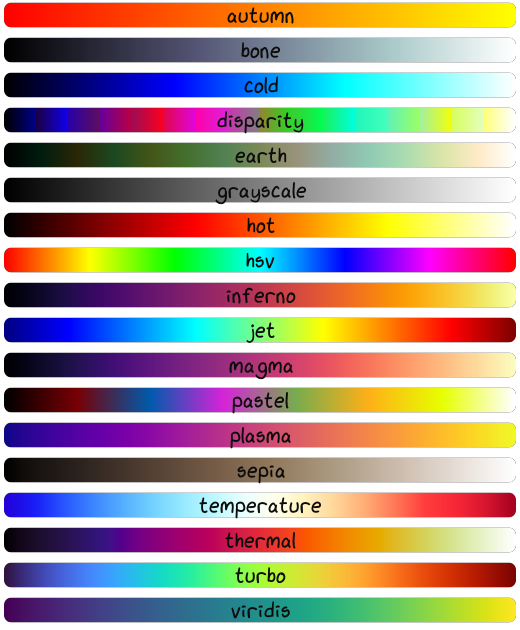
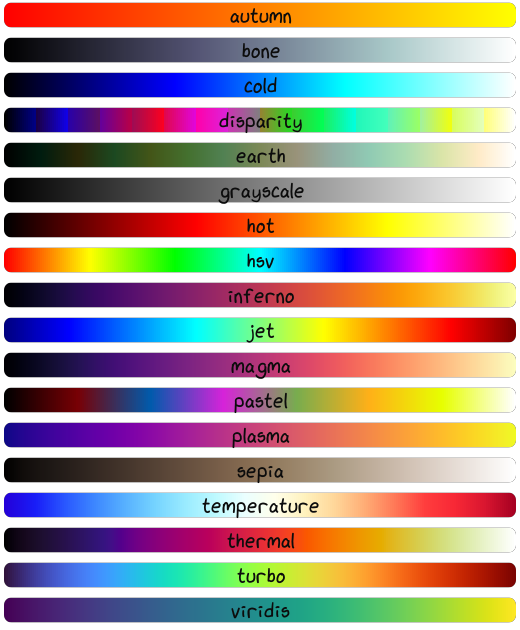
adjust source code include paths

diff --git a/examples/rtd-examples-python/rtd_demo_images/positioning.py b/examples/rtd-examples-python/rtd_demo_images/positioning.py
@@ -11,15 +11,15 @@ def demo_text_anchors():
         width=canvas_width, height=canvas_height, color='white!0')
 
     # Style specifications:
-    text_style = viren2d.TextStyle(family='xkcd', size=18)
-    text_style.alignment = 'center'
+    text_style = viren2d.TextStyle(
+        family='xkcd', size=18, alignment='center', color='white')
 
     line_style = viren2d.LineStyle(
         width=1, dash_pattern=[10, 10], color=(0.4, 0.4, 0.4))
 
     marker_style = viren2d.MarkerStyle(
         viren2d.Marker.Pentagram, size=18, thickness=1,
-        filled=True, color='navy-blue!80')
+        filled=True, color='maroon!80')
 
     # Draw a grid
     offset_x = 20
@@ -43,7 +43,7 @@ def demo_text_anchors():
         painter.draw_text_box(
             [str(anchor)], pos, anchor=anchor, text_style=text_style,
             padding=padding, rotation=0, line_style=viren2d.LineStyle.Invalid,
-            fill_color='azure!40', radius=0.15)
+            fill_color='azure!80', radius=0.15)
 
         x += delta_x
         if x >= canvas_width:

diff --git a/examples/rtd-examples-python/render_rtd_images.py b/examples/rtd-examples-python/render_rtd_images.py
@@ -15,7 +15,7 @@ def _process_result(
     if show_image:
         imvis.imshow(img, title, wait_ms=-1)#100)
     if save_image:
-        output_folder = Path(__file__).absolute().parents[1] / 'docs' / 'source' / 'images'
+        output_folder = Path(__file__).absolute().parents[2] / 'docs' / 'source' / 'images'
         imutils.imsave(output_folder / filename, img)
 
 
@@ -98,6 +98,5 @@ def render_rtd_cheatsheets(show_images: bool, save_images: bool):
 
 
 if __name__ == '__main__':
-    #FIXME re-enable:
-    # render_rtd_demos(True, True)
+    render_rtd_demos(True, True)
     render_rtd_cheatsheets(True, True)

diff --git a/examples/rtd-examples-python/rtd_demo_images/tracking_by_detection.py b/examples/rtd-examples-python/rtd_demo_images/tracking_by_detection.py
@@ -1,12 +1,12 @@
 import numpy as np
 import viren2d
-import pathlib
+from pathlib import Path
 
 
 def demo_tracking_by_detection():
     painter = viren2d.Painter()
     painter.set_canvas_filename(
-        str(pathlib.Path(__file__).parent.parent / 'data' / 'ninja.jpg'))
+        str(Path(__file__).absolute().parents[2] / 'data' / 'ninja.jpg'))
 
     line_style = viren2d.LineStyle(width=4, color='navy-blue!80')
     

diff --git a/examples/rtd-examples-python/rtd_demo_images/cheat_sheets.py b/examples/rtd-examples-python/rtd_demo_images/cheat_sheets.py
@@ -264,7 +264,7 @@ def cheat_sheet_colormaps():
 
    # Style specifications:
     text_style = viren2d.TextStyle(
-        family='xkcd', size=22, color=(0.05, 0.05, 0.05))
+        family='xkcd', size=21, color=(0.05, 0.05, 0.05))
     
     row = np.array([[i] * 2 for i in range(256)]).astype(np.uint8).flatten()
     data = np.repeat(row.reshape((1,-1)), 25, axis=0)

diff --git a/docs/source/tutorial/draw-primitives.rst b/docs/source/tutorial/draw-primitives.rst
@@ -23,7 +23,7 @@ An exemplary potpourri of supported arrow styles:
 
 This visualization has been created with the following Python code:
 
-   .. literalinclude:: ../../../examples/rtd_demo_images/primitives.py
+   .. literalinclude:: ../../../examples/rtd-examples-python/rtd_demo_images/primitives.py
       :language: python
       :lines: 68-100
       :emphasize-lines: 7-10, 15, 21, 24, 28
@@ -45,7 +45,7 @@ A potpourri of ellipse configurations:
 
 This visualization has been created with the following Python code:
 
-   .. literalinclude:: ../../../examples/rtd_demo_images/primitives.py
+   .. literalinclude:: ../../../examples/rtd-examples-python/rtd_demo_images/primitives.py
       :language: python
       :lines: 13-61
       :linenos:
@@ -68,7 +68,7 @@ Basic rectangle configurations:
 
 This visualization has been created with the following Python code:
 
-   .. literalinclude:: ../../../examples/rtd_demo_images/primitives.py
+   .. literalinclude:: ../../../examples/rtd-examples-python/rtd_demo_images/primitives.py
       :language: python
       :lines: 112-140
       :linenos:

diff --git a/docs/source/tutorial/draw-text.rst b/docs/source/tutorial/draw-text.rst
@@ -26,7 +26,7 @@ which are highlighted via :func:`~viren2d.Painter.draw_marker`:
 
 This visualization has been created with the following Python code:
 
-   .. literalinclude:: ../../../examples/rtd_demo_images/positioning.py
+   .. literalinclude:: ../../../examples/rtd-examples-python/rtd_demo_images/positioning.py
       :language: python
       :linenos:
       :lines: 35-51
@@ -51,7 +51,7 @@ multi-line text boxes. The displayed text lines are an excerpt from
 
 This visualization has been created with the following Python code:
 
-   .. literalinclude:: ../../../examples/rtd_demo_images/positioning.py
+   .. literalinclude:: ../../../examples/rtd-examples-python/rtd_demo_images/positioning.py
       :language: python
       :lines: 67-97
       :linenos:

diff --git a/docs/source/tutorial/colormaps.rst b/docs/source/tutorial/colormaps.rst
@@ -1,6 +1,29 @@
--------------------
-Tutorial: Colormaps
--------------------
+---------
+Colormaps
+---------
+
+Choose any supported :class:`~viren2d.Colormap` to colorize 2D input data via
+:meth:`~viren2d.colorize`.
+
+**Colormap Cheat Sheet:**
+
+   .. image:: ../images/colormaps-cheat-sheet.png
+      :width: 520
+      :alt: Available colormaps
+      :align: center
+
+**Colormap Example:**
+
+.. comment
+   This visualization has been created with the following Python code:
+
+   .. literalinclude:: ../../../examples/rtd-examples-python/rtd_demo_images/markers.py
+      :language: python
+      :emphasize-lines: 3-4, 35, 41
+      :lines: 11-62
+      :linenos:
+      :dedent: 4
+
 
 .. warning::
-   TODO doc
+   TODO add example, colorizer, ...

diff --git a/docs/source/tutorial/draw-markers.rst b/docs/source/tutorial/draw-markers.rst
@@ -16,10 +16,9 @@ Highlight locations via :meth:`~viren2d.Painter.draw_marker` or
 
 This visualization has been created with the following Python code:
 
-   .. literalinclude:: ../../../examples/rtd_demo_images/markers.py
+   .. literalinclude:: ../../../examples/rtd-examples-python/rtd_demo_images/markers.py
       :language: python
       :emphasize-lines: 3-4, 35, 41
       :lines: 11-62
       :linenos:
       :dedent: 4
-

diff --git a/docs/source/tutorial/draw-tracking-by-detection.rst b/docs/source/tutorial/draw-tracking-by-detection.rst
@@ -15,7 +15,7 @@ Tracking-by-detection results can be visualized via
 
 This visualization has been created with the following Python code:
 
-   .. literalinclude:: ../../../examples/rtd_demo_images/tracking_by_detection.py
+   .. literalinclude:: ../../../examples/rtd-examples-python/rtd_demo_images/tracking_by_detection.py
       :language: python
       :lines: 11-76
       :emphasize-lines: 7, 17-20, 39-42

diff --git a/docs/source/tutorial/draw.rst b/docs/source/tutorial/draw.rst
@@ -1,8 +1,8 @@
 .. _tutorial-painter-usage:
 
----------------------
-Tutorial: The Painter
----------------------
+-------
+Drawing
+-------
 
 The :py:class:`~viren2d.Painter` class allows you to draw either onto an
 existing image or onto an empty canvas. Simply set it up via:
